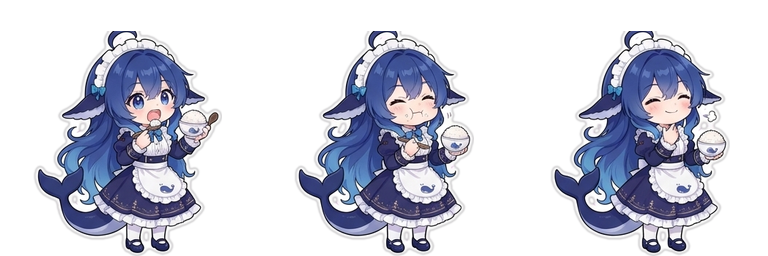
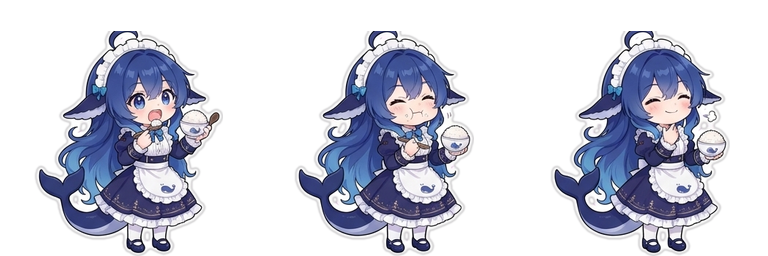
fix(assets): 帧间锚点配准——角色本体钉死，装饰件围绕浮动
- 抖动源：装饰件（星星）挂在单帧使该帧整体变宽，逐帧'内容居中'让角色本体左右偏移
- 修复（图形学锚点配准）：x=角色中心对齐画布中心 128，y=角色脚底对齐画布底部；装饰件按相对位置围绕本体
- 结果：walk 中心漂移 0.5px、idle 1.5px、working 0.5px、drag 1px（肢体本身合理变化除外：drag 宽度差 39px 但中心仅 1px）
- 验证：web 无崩溃、assets 200、冒烟 OK

Changed region(s): [[0.0312, 0.125, 0.3125, 1.0]]

diff --git a/scripts/slice-sheet.py b/scripts/slice-sheet.py
@@ -413,8 +413,8 @@ def build_sheet_from_comps(band, comps, state_centers, my_center, size, row_y0, 
         return None, 0
     s = (size * scale) / hmax
     norm = []
-    for i, (a, bb, _) in enumerate(my_frames):
-        x0, y0, x1, y1 = bb
+    for i, (a, cbb, _) in enumerate(my_frames):
+        x0, y0, x1, y1 = cbb
         for dbb in attach[i]:
             x0 = min(x0, dbb[0])
             y0 = min(y0, dbb[1])
@@ -425,10 +425,20 @@ def build_sheet_from_comps(band, comps, state_centers, my_center, size, row_y0, 
         fh = max(1, round(f.height * s))
         if f.size != (fw, fh):
             f = f.resize((fw, fh), Image.LANCZOS)
-        norm.append(f)
+        norm.append((f, cbb, (x0, y0)))
     sheet = Image.new('RGBA', (size * len(norm), size), (0, 0, 0, 0))
-    for i, f in enumerate(norm):
-        sheet.paste(f, (i * size + (size - f.width) // 2, size - f.height), f)
+    for i, (f, cbb, (x0, y0)) in enumerate(norm):
+        # 锚点配准（角色本体不动，装饰件围绕浮动——杜绝装饰件引起的左右晃动）：
+        # x = 角色中心对齐画布中心 128；y = 角色脚底对齐画布底部。
+        char_cx = round(((cbb[0] + cbb[2]) / 2 - x0) * s)
+        char_bot = round((cbb[3] - y0) * s)
+        px = 128 - char_cx
+        py = size - char_bot
+        px = min(px, size - f.width)
+        py = min(py, size - f.height)
+        px = max(px, 0)
+        py = max(py, 0)
+        sheet.paste(f, (i * size + px, py), f)
     return sheet, len(norm)
 
 
